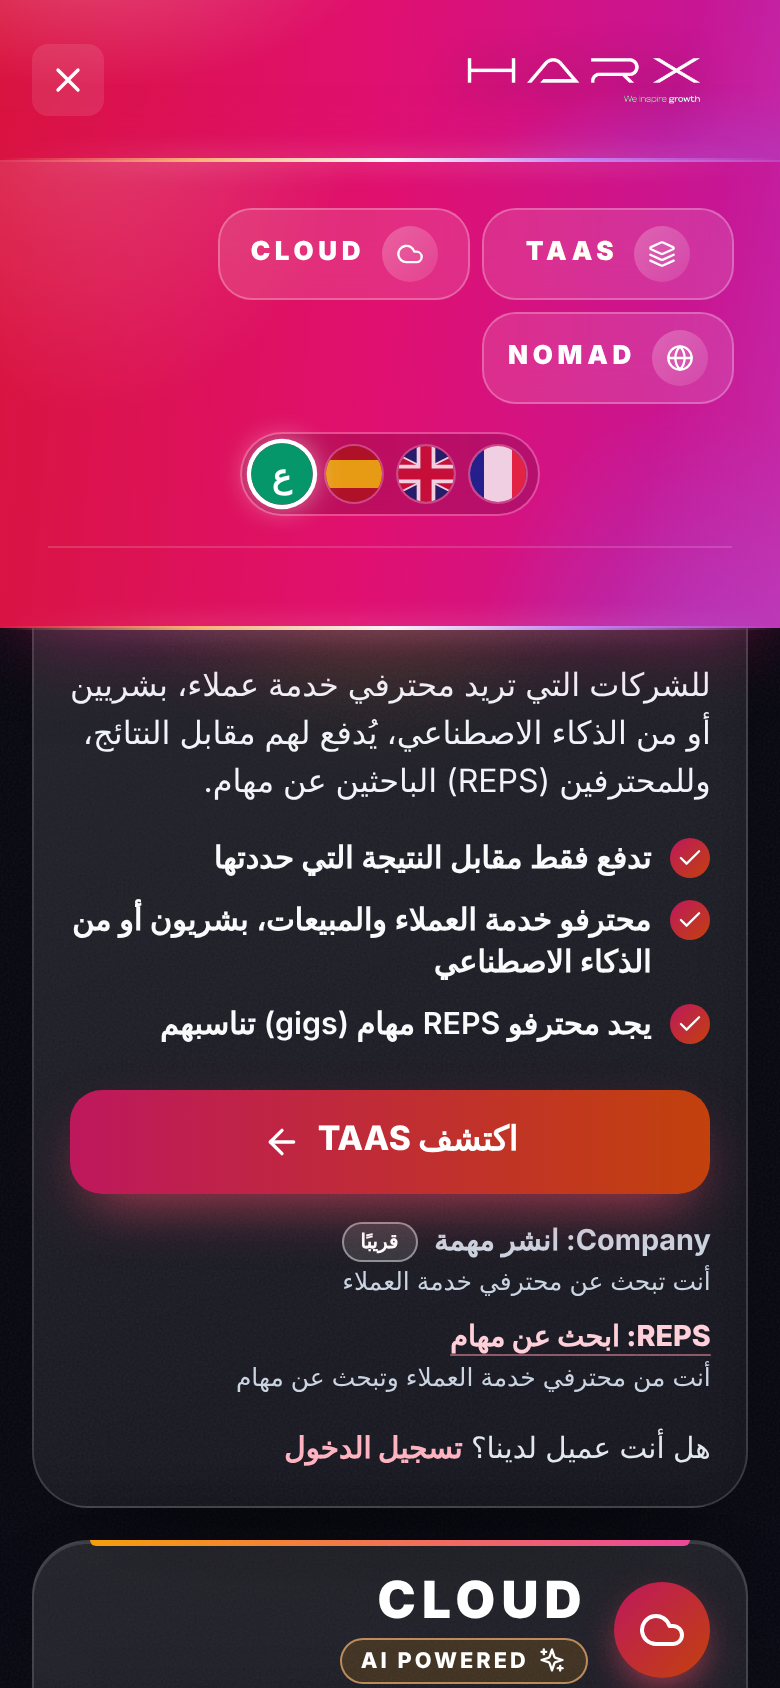
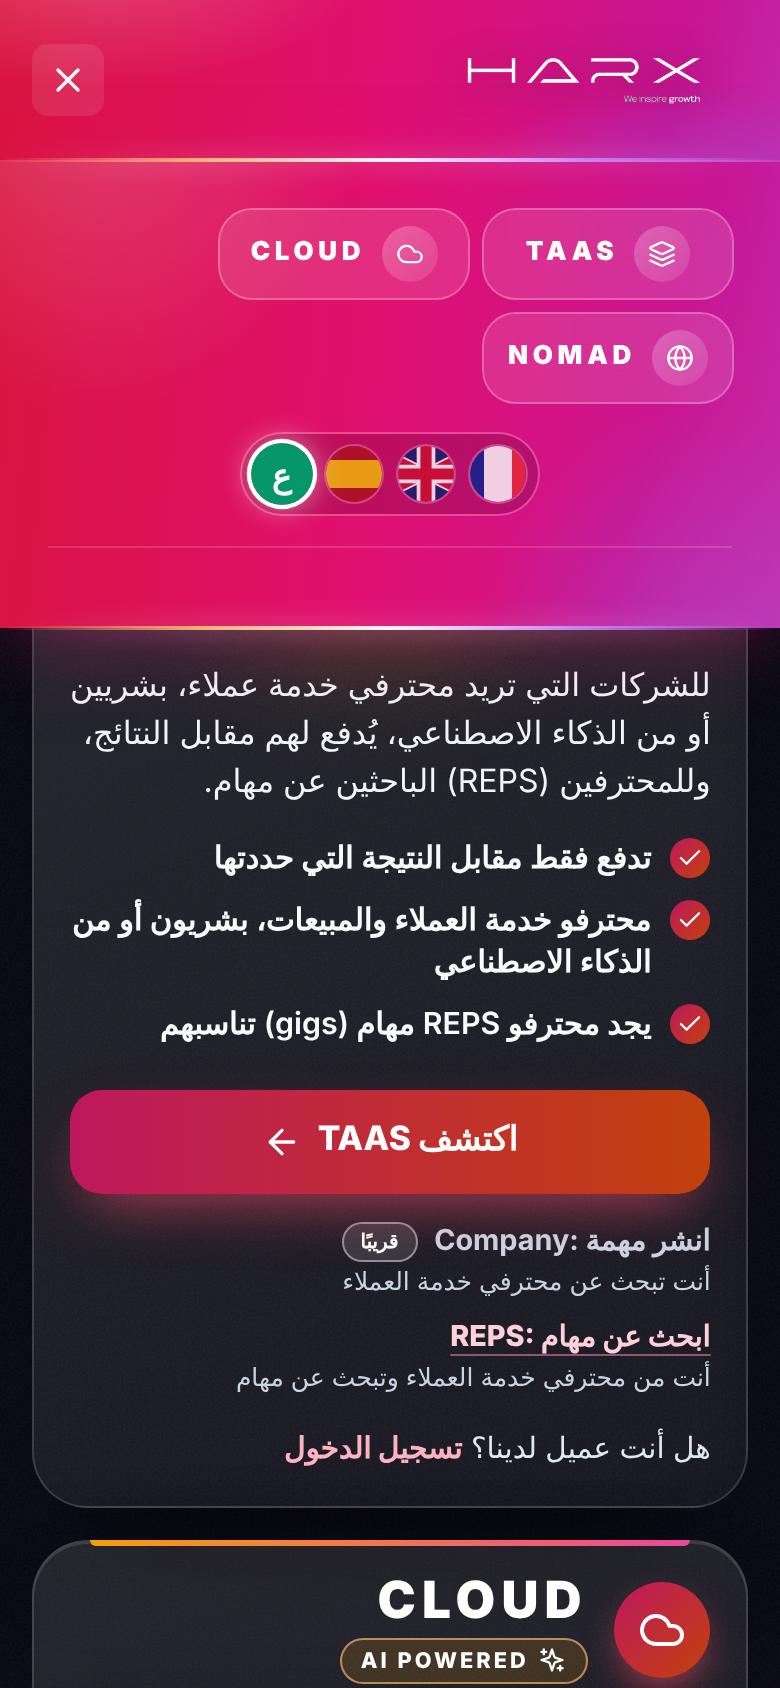
Accueil : lien NOMAD avec profil=solo, trois pastilles sur l'accueil seulement (pages légales inchangées), segments latins isolés en arabe
Claude-Session: https://claude.ai/code/session_01QDHeYpx2HUqCehhUxqRqw2

Changed region(s): [[0.5538, 0.7085, 0.9231, 0.7393], [0.5846, 0.7701, 0.9231, 0.8009]]

diff --git a/src/components/Hub/HubPage.tsx b/src/components/Hub/HubPage.tsx
@@ -72,13 +72,13 @@ function OfferCard({ offer, lang, onSelectRole }: { offer: OfferConfig; lang: Of
           <p className="hub-ai" data-testid={`hub-ai-${offer.id}`}><Sparkles className="h-3.5 w-3.5" aria-hidden="true" />{t('hub.aiPowered')}</p>
         </div>
       </header>
-      <h2 id={titleId} className="hub-card__title">{t(offer.titleKey)}</h2>
-      <p className="hub-card__target">{t(offer.targetKey)}</p>
+      <h2 id={titleId} className="hub-card__title"><bdi>{t(offer.titleKey)}</bdi></h2>
+      <p className="hub-card__target"><bdi>{t(offer.targetKey)}</bdi></p>
       <ul className="hub-benefits" data-testid={`hub-benefits-${offer.id}`}>
         {offer.benefitKeys.map((key) => (
           <li key={key}>
             <Check className="hub-benefits__tick" aria-hidden="true" />
-            <span>{t(key)}</span>
+            <span><bdi>{t(key)}</bdi></span>
           </li>
         ))}
       </ul>
@@ -92,7 +92,7 @@ function OfferCard({ offer, lang, onSelectRole }: { offer: OfferConfig; lang: Of
           }}
           className="hub-cta"
         >
-          {t(offer.ctaKey)}
+          <bdi>{t(offer.ctaKey)}</bdi>
           <ArrowRight className="h-5 w-5 hub-cta__arrow" aria-hidden="true" />
         </a>
         <div className="hub-more">
@@ -105,10 +105,10 @@ function OfferCard({ offer, lang, onSelectRole }: { offer: OfferConfig; lang: Of
                 return (
                   <li key={child.id} className={mini ? '' : 'hub-links__item'}>
                     <span className={`${mini ? 'hub-mini hub-mini--soon' : 'hub-link hub-link--soon'}`} aria-disabled="true" data-testid={`offer-child-${offer.id}-${child.id}`}>
-                      {t(child.labelKey)}
+                      <bdi>{t(child.labelKey)}</bdi>
                       <span className="hub-soon">{t('hub.comingSoon')}</span>
                     </span>
-                    {child.hintKey && <span className="hub-hint">{t(child.hintKey)}</span>}
+                    {child.hintKey && <span className="hub-hint"><bdi>{t(child.hintKey)}</bdi></span>}
                   </li>
                 );
               }
@@ -120,9 +120,9 @@ function OfferCard({ offer, lang, onSelectRole }: { offer: OfferConfig; lang: Of
                     onClick={(e) => openChild(e, child)}
                     className={mini ? 'hub-mini' : 'hub-link'}
                   >
-                    {t(child.labelKey)}
+                    <bdi>{t(child.labelKey)}</bdi>
                   </a>
-                  {child.hintKey && <span className="hub-hint">{t(child.hintKey)}</span>}
+                  {child.hintKey && <span className="hub-hint"><bdi>{t(child.hintKey)}</bdi></span>}
                 </li>
               );
             })}
@@ -178,7 +178,7 @@ export function HubPage({ onSelectRole, onNavigateToSection }: HubPageProps) {
 
   return (
     <div id="top" className="hub-root hub-screen relative overflow-x-hidden text-white">
-      <Header hub onSignIn={() => {}} onGetStarted={() => {}} onNavigateToSection={onNavigateToSection} />
+      <Header hub homeThreePills onSignIn={() => {}} onGetStarted={() => {}} onNavigateToSection={onNavigateToSection} />
 
       <main className="hub-stage" aria-label={t('hub.offersAria')}>
         <div className="hub-aurora" aria-hidden="true">

diff --git a/src/components/LandingPage/Header.tsx b/src/components/LandingPage/Header.tsx
@@ -17,7 +17,7 @@ import {
 } from '../../lib/authRedirect';
 import { hardNavigate } from '../../lib/appNavigation';
 import { subscribeAuthChanged } from '../../lib/authSync';
-import { HEADER_MARK_IDS, HUB_MARK_IDS, resolveMarkHref } from '../../config/offers';
+import { getHeaderMarkIds, resolveMarkHref } from '../../config/offers';
 
 interface HeaderProps {
   onSignIn: () => void;
@@ -28,6 +28,8 @@ interface HeaderProps {
   telephony?: boolean;
   /** Accueil de l'ensemble HARX : aucune offre courante, pas de connexion dans le bandeau. */
   hub?: boolean;
+  /** Accueil HARX seulement : trois pastilles (TAAS, CLOUD, NOMAD). Les autres écrans, pages légales comprises, gardent TAAS et TELEPHONY. */
+  homeThreePills?: boolean;
   /** Pages TAAS (accueil, Company, REPS) : l'offre courante est TAAS, avec ses deux espaces. */
   taas?: 'home' | 'company' | 'reps';
 }
@@ -36,7 +38,7 @@ interface HeaderProps {
  * Bandeau commun à tous les écrans HARX : le logo toujours en haut à gauche, les offres en pastilles (TAAS et TELEPHONY ; TAAS, CLOUD et NOMAD sur l'accueil),
  * l'espace courant de TAAS (Company / REPS), le choix de la langue en icônes, puis la connexion.
  */
-export function Header({ onSignIn, onGetStarted, telephony = false, hub = false, taas }: HeaderProps) {
+export function Header({ onSignIn, onGetStarted, telephony = false, hub = false, homeThreePills = false, taas }: HeaderProps) {
   const navigate = useNavigate();
   const [isMenuOpen, setIsMenuOpen] = React.useState(false);
   const [dashboardLoading, setDashboardLoading] = React.useState(false);
@@ -141,12 +143,12 @@ export function Header({ onSignIn, onGetStarted, telephony = false, hub = false,
 
   const offerMarks = (mobile = false) => (
     <div className={mobile ? 'flex flex-wrap gap-2' : 'flex items-center gap-2'} data-testid="offer-marks">
-      {(hub ? HUB_MARK_IDS : HEADER_MARK_IDS).map((o) => (
+      {getHeaderMarkIds(homeThreePills).map((o) => (
         <OfferMark
           key={o}
           offer={o}
           active={offer === o}
-          compact={hub}
+          compact={homeThreePills}
           href={o === 'taas' ? withLangPrefix(TAAS_HOME, siteLang) : resolveMarkHref(o, siteLang)}
           onClick={(e) => goOffer(e, o)}
           data-testid={`offer-mark-${o}`}

diff --git a/src/config/offers.test.ts b/src/config/offers.test.ts
@@ -6,6 +6,7 @@ import {
   HEADER_MARK_IDS,
   NOMAD_SOLO_START,
   getAvailableOffers,
+  getHeaderMarkIds,
   isChildComingSoon,
   resolveChildTarget,
   resolveMarkHref,
@@ -32,8 +33,8 @@ describe('accueil : trois offres', () => {
     expect(resolveOfferHref(byId.taas, 'en')).toBe('/en/taas');
     expect(resolveOfferHref(byId.taas, 'fr')).toBe('/fr/taas');
     expect(resolveOfferHref(byId.cloud, 'es')).toBe('/telephony');
-    expect(resolveOfferHref(byId.nomad, 'ar')).toBe('/telephony/start?plan=nomad_solo');
-    expect(NOMAD_SOLO_START).toBe('/telephony/start?plan=nomad_solo');
+    expect(resolveOfferHref(byId.nomad, 'ar')).toBe('/telephony/start?profil=solo&plan=nomad_solo');
+    expect(NOMAD_SOLO_START).toBe('/telephony/start?profil=solo&plan=nomad_solo');
   });
 
   it('« Déjà client ? » : connexions existantes inchangées', () => {
@@ -70,11 +71,16 @@ describe('bandeau', () => {
     expect(HEADER_MARK_IDS).toEqual(['taas', 'telephony']);
   });
 
+  it('seul l\'accueil (prop homeThreePills) affiche trois pastilles ; pages légales et autres : ancien bandeau', () => {
+    expect(getHeaderMarkIds(true)).toEqual(['taas', 'cloud', 'nomad']);
+    expect(getHeaderMarkIds(false)).toEqual(['taas', 'telephony']);
+  });
+
   it('liens des pastilles', () => {
     expect(resolveMarkHref('taas', 'en')).toBe('/en/taas');
     expect(resolveMarkHref('telephony', 'fr')).toBe('/telephony');
     expect(resolveMarkHref('cloud', 'fr')).toBe('/telephony');
-    expect(resolveMarkHref('nomad', 'fr')).toBe('/telephony/start?plan=nomad_solo');
+    expect(resolveMarkHref('nomad', 'fr')).toBe('/telephony/start?profil=solo&plan=nomad_solo');
   });
 });
 

diff --git a/src/config/offers.ts b/src/config/offers.ts
@@ -64,8 +64,11 @@ export interface OfferConfig {
   signIn: { route: string; langPrefixed: boolean } | null;
 }
 
-/** Démarrage de l'offre Nomad Solo (application Téléphonie, même origine). */
-export const NOMAD_SOLO_START = '/telephony/start?plan=nomad_solo';
+/**
+ * Démarrage de l'offre Nomad Solo (application Téléphonie, même origine). `profil=solo` est indispensable : sans lui, l'application
+ * ouvre le parcours entreprise (callcenter_front : planStartPath, src/domain/profile.ts ; StartCenter.tsx).
+ */
+export const NOMAD_SOLO_START = '/telephony/start?profil=solo&plan=nomad_solo';
 
 const TELEPHONY_SIGN_IN = { route: '/auth/signin?product=callcentre', langPrefixed: false } as const;
 
@@ -133,6 +136,11 @@ export const OFFERS: readonly OfferConfig[] = [
 export type MarkId = 'taas' | 'telephony' | 'cloud' | 'nomad';
 export const HUB_MARK_IDS: readonly MarkId[] = ['taas', 'cloud', 'nomad'];
 export const HEADER_MARK_IDS: readonly MarkId[] = ['taas', 'telephony'];
+
+/** Pastilles du bandeau : trois sur l'accueil seulement (`homeThreePills`), les deux d'origine partout ailleurs (pages légales comprises). */
+export function getHeaderMarkIds(homeThreePills: boolean): readonly MarkId[] {
+  return homeThreePills ? HUB_MARK_IDS : HEADER_MARK_IDS;
+}
 
 /** Lien d'une pastille (l'accueil et TAAS sont préfixés par la langue ; Téléphonie est une application distincte). */
 export function resolveMarkHref(mark: MarkId, lang: OfferLang): string {
